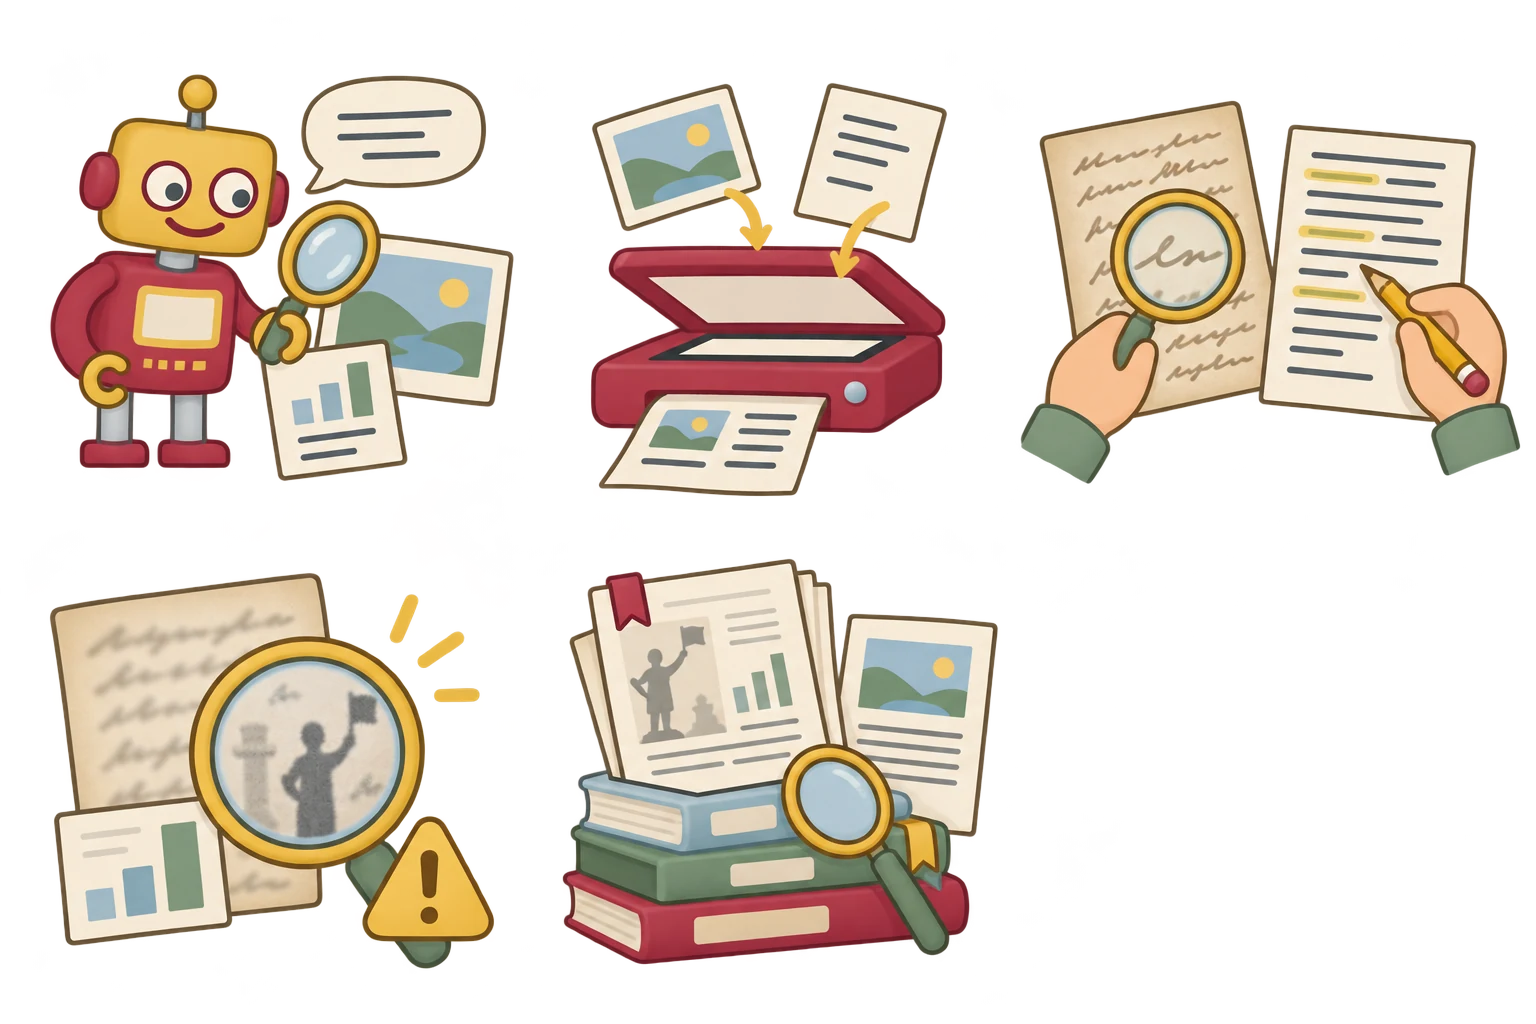
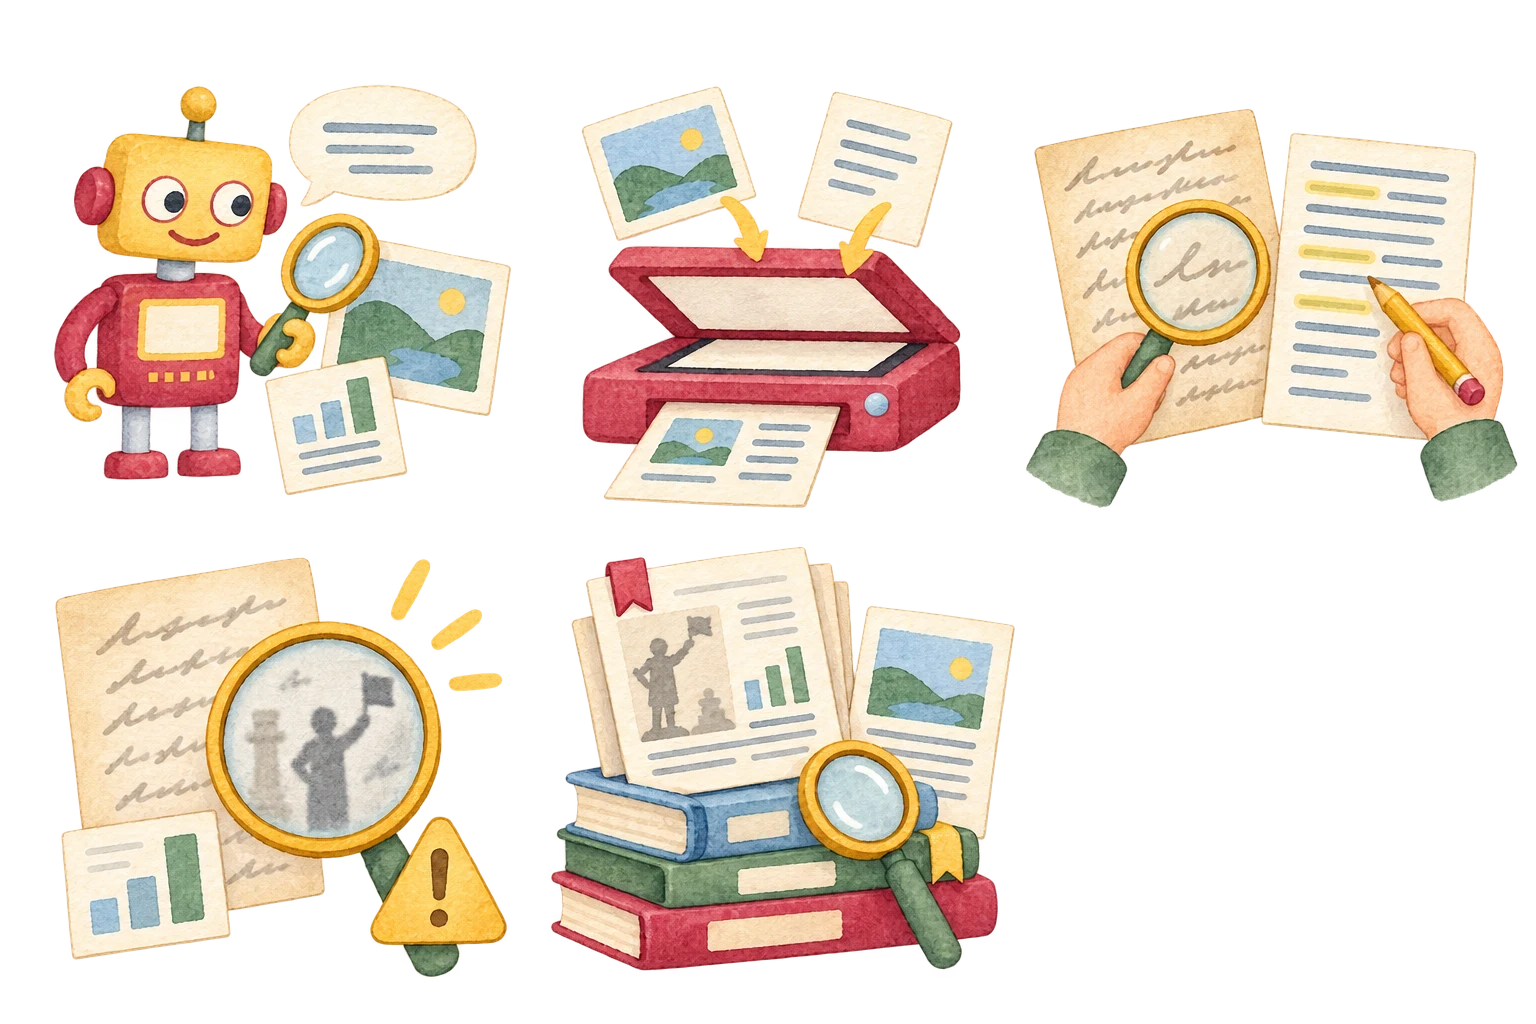
Repaint all AI-type illustrations in the walkthrough watercolor style
Repaint all 55 scenes using both walkthroughs as references. Preserve soft pigment washes, fine paper grain, and light contours. Use measured CSS viewports to retain the complete painted edges, with tests for all scene proportions and transparent margins.

diff --git a/src/css/register-types.css b/src/css/register-types.css
@@ -68,24 +68,77 @@ html.type-dialog-open{overflow:hidden;}
 .type-slide:focus-visible{outline:2px solid var(--focus);outline-offset:5px;}
 .type-slide__text{min-width:0;}
 .type-slide .type-slide__text h3{margin:0 0 12px;padding:0;border:0;}
-/* Five separate illustrations per type, packed in a 3 × 2 transparent atlas.
-   CSS selects a cell without downloading five separate files. No text is in the artwork. */
-.type-slide__art{width:100%;aspect-ratio:1;background-repeat:no-repeat;background-size:300% 200%;background-position:0 0;pointer-events:none;}
-.type-slide__art--1{background-position:50% 0;}
-.type-slide__art--2{background-position:100% 0;}
-.type-slide__art--3{background-position:0 100%;}
-.type-slide__art--4{background-position:50% 100%;}
-.type-slide__art--conversational{background-image:url(../img/types-conversational.webp);}
-.type-slide__art--multimodal{background-image:url(../img/types-multimodal.webp);}
-.type-slide__art--image{background-image:url(../img/types-image.webp);}
-.type-slide__art--video{background-image:url(../img/types-video.webp);}
-.type-slide__art--audio{background-image:url(../img/types-audio.webp);}
-.type-slide__art--code{background-image:url(../img/types-code.webp);}
-.type-slide__art--discipline{background-image:url(../img/types-discipline.webp);}
-.type-slide__art--grounded{background-image:url(../img/types-grounded.webp);}
-.type-slide__art--search{background-image:url(../img/types-search.webp);}
-.type-slide__art--agentic{background-image:url(../img/types-agentic.webp);}
-.type-slide__art--institutional{background-image:url(../img/types-institutional.webp);}
+/* Five watercolor scenes per transparent atlas. Individually measured viewports
+   retain the painted edges and gutters; the square layout slot stays constant. */
+.type-slide__art{position:relative;width:100%;aspect-ratio:1;pointer-events:none;}
+.type-slide__art::before{content:"";position:absolute;left:50%;top:50%;transform:translate(-50%,-50%);width:var(--art-width);height:var(--art-height);background-image:var(--art-image);background-repeat:no-repeat;background-size:var(--art-size);background-position:var(--art-position);}
+.type-slide__art--conversational{--art-image:url(../img/types-conversational.webp);}
+.type-slide__art--multimodal{--art-image:url(../img/types-multimodal.webp);}
+.type-slide__art--image{--art-image:url(../img/types-image.webp);}
+.type-slide__art--video{--art-image:url(../img/types-video.webp);}
+.type-slide__art--audio{--art-image:url(../img/types-audio.webp);}
+.type-slide__art--code{--art-image:url(../img/types-code.webp);}
+.type-slide__art--discipline{--art-image:url(../img/types-discipline.webp);}
+.type-slide__art--grounded{--art-image:url(../img/types-grounded.webp);}
+.type-slide__art--search{--art-image:url(../img/types-search.webp);}
+.type-slide__art--agentic{--art-image:url(../img/types-agentic.webp);}
+.type-slide__art--institutional{--art-image:url(../img/types-institutional.webp);}
+/* watercolor scene viewports */
+.type-slide__art--conversational.type-slide__art--0{--art-width:94.000000%;--art-height:85.658009%;--art-size:332.467532% 243.230404%;--art-position:3.351955% 12.769486%;}
+.type-slide__art--conversational.type-slide__art--1{--art-width:94.000000%;--art-height:56.665323%;--art-size:309.677419% 342.474916%;--art-position:50.096154% 21.517241%;}
+.type-slide__art--conversational.type-slide__art--2{--art-width:94.000000%;--art-height:81.577909%;--art-size:302.958580% 232.727273%;--art-position:99.611273% 14.041096%;}
+.type-slide__art--conversational.type-slide__art--3{--art-width:94.000000%;--art-height:92.164859%;--art-size:333.188720% 226.548673%;--art-position:2.511628% 95.104895%;}
+.type-slide__art--conversational.type-slide__art--4{--art-width:94.000000%;--art-height:74.824000%;--art-size:307.200000% 257.286432%;--art-position:50.772201% 90.095847%;}
+.type-slide__art--multimodal.type-slide__art--0{--art-width:94.000000%;--art-height:84.853002%;--art-size:318.012422% 234.862385%;--art-position:3.893637% 12.244898%;}
+.type-slide__art--multimodal.type-slide__art--1{--art-width:84.767857%;--art-height:94.000000%;--art-size:380.198020% 228.571429%;--art-position:50.265018% 12.673611%;}
+.type-slide__art--multimodal.type-slide__art--2{--art-width:94.000000%;--art-height:77.058140%;--art-size:297.674419% 242.080378%;--art-position:99.411765% 16.139767%;}
+.type-slide__art--multimodal.type-slide__art--3{--art-width:94.000000%;--art-height:87.496855%;--art-size:322.012579% 230.630631%;--art-position:4.060434% 93.965517%;}
+.type-slide__art--multimodal.type-slide__art--4{--art-width:94.000000%;--art-height:86.487705%;--art-size:314.754098% 228.062361%;--art-position:51.431298% 92.869565%;}
+.type-slide__art--image.type-slide__art--0{--art-width:94.000000%;--art-height:88.226488%;--art-size:294.817658% 209.406953%;--art-position:1.280788% 5.607477%;}
+.type-slide__art--image.type-slide__art--1{--art-width:94.000000%;--art-height:84.858351%;--art-size:324.735729% 239.812646%;--art-position:50.235183% 13.902848%;}
+.type-slide__art--image.type-slide__art--2{--art-width:94.000000%;--art-height:81.976744%;--art-size:297.674419% 227.555556%;--art-position:98.725490% 12.195122%;}
+.type-slide__art--image.type-slide__art--3{--art-width:94.000000%;--art-height:77.723735%;--art-size:298.832685% 240.941176%;--art-position:1.761252% 90.984975%;}
+.type-slide__art--image.type-slide__art--4{--art-width:94.000000%;--art-height:77.433663%;--art-size:304.158416% 246.153846%;--art-position:51.600388% 91.118421%;}
+.type-slide__art--video.type-slide__art--0{--art-width:94.000000%;--art-height:75.008163%;--art-size:313.469388% 261.892583%;--art-position:2.198853% 18.009479%;}
+.type-slide__art--video.type-slide__art--1{--art-width:94.000000%;--art-height:88.426877%;--art-size:303.557312% 215.126050%;--art-position:49.805825% 7.846715%;}
+.type-slide__art--video.type-slide__art--2{--art-width:94.000000%;--art-height:76.791339%;--art-size:302.362205% 246.746988%;--art-position:99.319066% 21.510673%;}
+.type-slide__art--video.type-slide__art--3{--art-width:94.000000%;--art-height:71.940803%;--art-size:324.735729% 282.872928%;--art-position:2.822201% 88.821752%;}
+.type-slide__art--video.type-slide__art--4{--art-width:94.000000%;--art-height:78.681481%;--art-size:284.444444% 226.548673%;--art-position:51.807229% 95.979021%;}
+.type-slide__art--audio.type-slide__art--0{--art-width:94.000000%;--art-height:84.326622%;--art-size:343.624161% 255.361596%;--art-position:5.417815% 16.693419%;}
+.type-slide__art--audio.type-slide__art--1{--art-width:94.000000%;--art-height:88.070093%;--art-size:358.878505% 255.361596%;--art-position:50.180505% 17.014446%;}
+.type-slide__art--audio.type-slide__art--2{--art-width:94.000000%;--art-height:88.550725%;--art-size:318.012422% 225.054945%;--art-position:96.676163% 10.017575%;}
+.type-slide__art--audio.type-slide__art--3{--art-width:94.000000%;--art-height:80.717391%;--art-size:333.913043% 259.240506%;--art-position:3.996283% 88.553259%;}
+.type-slide__art--audio.type-slide__art--4{--art-width:94.000000%;--art-height:79.507495%;--art-size:328.907923% 259.240506%;--art-position:50.420954% 88.076312%;}
+.type-slide__art--code.type-slide__art--0{--art-width:94.000000%;--art-height:82.297189%;--art-size:308.433735% 234.862385%;--art-position:2.408478% 12.074830%;}
+.type-slide__art--code.type-slide__art--1{--art-width:94.000000%;--art-height:89.042194%;--art-size:324.050633% 228.062361%;--art-position:51.506591% 11.304348%;}
+.type-slide__art--code.type-slide__art--2{--art-width:94.000000%;--art-height:76.445783%;--art-size:308.433735% 252.839506%;--art-position:98.940270% 16.801292%;}
+.type-slide__art--code.type-slide__art--3{--art-width:94.000000%;--art-height:77.207392%;--art-size:315.400411% 256.000000%;--art-position:4.194471% 87.660256%;}
+.type-slide__art--code.type-slide__art--4{--art-width:94.000000%;--art-height:79.975806%;--art-size:309.677419% 242.654028%;--art-position:53.461538% 90.199336%;}
+.type-slide__art--discipline.type-slide__art--0{--art-width:94.000000%;--art-height:73.656716%;--art-size:286.567164% 243.809524%;--art-position:1.600000% 14.072848%;}
+.type-slide__art--discipline.type-slide__art--1{--art-width:94.000000%;--art-height:78.762105%;--art-size:323.368421% 257.286432%;--art-position:52.309142% 15.335463%;}
+.type-slide__art--discipline.type-slide__art--2{--art-width:94.000000%;--art-height:76.838174%;--art-size:318.672199% 259.898477%;--art-position:98.292220% 18.095238%;}
+.type-slide__art--discipline.type-slide__art--3{--art-width:94.000000%;--art-height:71.505837%;--art-size:298.832685% 261.892583%;--art-position:1.272016% 90.521327%;}
+.type-slide__art--discipline.type-slide__art--4{--art-width:94.000000%;--art-height:77.484112%;--art-size:287.102804% 232.199546%;--art-position:53.546454% 94.168096%;}
+.type-slide__art--grounded.type-slide__art--0{--art-width:94.000000%;--art-height:89.390192%;--art-size:327.505330% 229.596413%;--art-position:2.530459% 11.591696%;}
+.type-slide__art--grounded.type-slide__art--1{--art-width:94.000000%;--art-height:85.954071%;--art-size:320.668058% 233.789954%;--art-position:50.047304% 10.750853%;}
+.type-slide__art--grounded.type-slide__art--2{--art-width:94.000000%;--art-height:82.367265%;--art-size:306.586826% 233.257403%;--art-position:98.550725% 13.675214%;}
+.type-slide__art--grounded.type-slide__art--3{--art-width:94.000000%;--art-height:74.151394%;--art-size:305.976096% 258.585859%;--art-position:2.514507% 90.445860%;}
+.type-slide__art--grounded.type-slide__art--4{--art-width:94.000000%;--art-height:81.532632%;--art-size:323.368421% 248.543689%;--art-position:51.555137% 92.156863%;}
+.type-slide__art--search.type-slide__art--0{--art-width:94.000000%;--art-height:85.705882%;--art-size:322.689076% 235.944700%;--art-position:2.264151% 12.033898%;}
+.type-slide__art--search.type-slide__art--1{--art-width:94.000000%;--art-height:84.135802%;--art-size:316.049383% 235.402299%;--art-position:50.666667% 11.884550%;}
+.type-slide__art--search.type-slide__art--2{--art-width:94.000000%;--art-height:93.044715%;--art-size:312.195122% 210.266940%;--art-position:98.754789% 7.448790%;}
+.type-slide__art--search.type-slide__art--3{--art-width:94.000000%;--art-height:81.747863%;--art-size:328.205128% 251.597052%;--art-position:3.277154% 91.085900%;}
+.type-slide__art--search.type-slide__art--4{--art-width:94.000000%;--art-height:82.564948%;--art-size:316.701031% 240.375587%;--art-position:50.428164% 93.143813%;}
+.type-slide__art--agentic.type-slide__art--0{--art-width:94.000000%;--art-height:76.870159%;--art-size:349.886105% 285.236769%;--art-position:5.651778% 17.744361%;}
+.type-slide__art--agentic.type-slide__art--1{--art-width:94.000000%;--art-height:80.748899%;--art-size:338.325991% 262.564103%;--art-position:51.293900% 12.618297%;}
+.type-slide__art--agentic.type-slide__art--2{--art-width:94.000000%;--art-height:86.769231%;--art-size:381.141439% 275.268817%;--art-position:94.086496% 18.558282%;}
+.type-slide__art--agentic.type-slide__art--3{--art-width:94.000000%;--art-height:69.948357%;--art-size:360.563380% 323.028391%;--art-position:6.396396% 85.572843%;}
+.type-slide__art--agentic.type-slide__art--4{--art-width:94.000000%;--art-height:72.052863%;--art-size:338.325991% 294.252874%;--art-position:50.831793% 86.834320%;}
+.type-slide__art--institutional.type-slide__art--0{--art-width:94.000000%;--art-height:69.163303%;--art-size:281.834862% 255.361596%;--art-position:0.302725% 15.890851%;}
+.type-slide__art--institutional.type-slide__art--1{--art-width:94.000000%;--art-height:89.158798%;--art-size:329.613734% 231.674208%;--art-position:51.214953% 10.481100%;}
+.type-slide__art--institutional.type-slide__art--2{--art-width:94.000000%;--art-height:73.192233%;--art-size:298.252427% 255.361596%;--art-position:99.314398% 17.014446%;}
+.type-slide__art--institutional.type-slide__art--3{--art-width:94.000000%;--art-height:74.416667%;--art-size:304.761905% 256.641604%;--art-position:2.325581% 90.720000%;}
+.type-slide__art--institutional.type-slide__art--4{--art-width:94.000000%;--art-height:82.008230%;--art-size:316.049383% 241.509434%;--art-position:51.428571% 91.333333%;}
 .type-slide p{color:var(--ink-2);font-size:17px;line-height:1.6;margin:0;max-width:82ch;}
 .type-slide .type-sources{margin:6px 0 0;}
 .type-deck__nav{display:flex;align-items:center;gap:10px 14px;margin-left:auto;}

diff --git a/tests/types.test.js b/tests/types.test.js
@@ -56,16 +56,30 @@ async function box(page){return page.locator('#aiTypeDialog').evaluate(n=>{const
    assert.deepEqual(await page.locator('.type-slide h3').allTextContents(),['What it does','Inputs and outputs','Illustrative faculty use','Limits and open questions','References']);
    assert.deepEqual(await page.locator('.type-slide').evaluateAll(ns=>ns.map(n=>n.hidden)),[false,true,true,true,true]);
    assert.equal(await page.locator('#typePos').textContent(),'1 of 5');
-   /* All five illustrations resolve locally and select different cells in this type's atlas. */
+   /* All five watercolor scenes decode locally, keep their proportions, and have clear edges. */
    const art=await page.locator('.type-slide__art').evaluateAll(async ns=>{
      return Promise.all(ns.map(async n=>{
-       const css=getComputedStyle(n),url=css.backgroundImage.slice(5,-2),img=new Image();
+       const css=getComputedStyle(n,'::before'),url=css.backgroundImage.slice(5,-2),img=new Image();
        img.src=url;await img.decode();
-       return {hidden:n.getAttribute('aria-hidden'),url,position:css.backgroundPosition,size:css.backgroundSize,width:img.naturalWidth,height:img.naturalHeight};
+       const size=css.backgroundSize.split(' ').map(parseFloat),pos=css.backgroundPosition.split(' ').map(parseFloat);
+       const w=img.naturalWidth*100/size[0],h=img.naturalHeight*100/size[1];
+       const x=Math.round((img.naturalWidth-w)*pos[0]/100),y=Math.round((img.naturalHeight-h)*pos[1]/100);
+       const cw=Math.round(w),ch=Math.round(h),canvas=document.createElement('canvas');
+       canvas.width=img.naturalWidth;canvas.height=img.naturalHeight;
+       const ctx=canvas.getContext('2d');ctx.drawImage(img,0,0);
+       const pixels=ctx.getImageData(x,y,cw,ch).data;
+       const alpha=(px,py)=>pixels[(py*cw+px)*4+3];
+       let edgeAlpha=0;
+       for(let px=0;px<cw;px++)edgeAlpha=Math.max(edgeAlpha,alpha(px,0),alpha(px,ch-1));
+       for(let py=0;py<ch;py++)edgeAlpha=Math.max(edgeAlpha,alpha(0,py),alpha(cw-1,py));
+       const ratio=parseFloat(css.getPropertyValue('--art-width'))/parseFloat(css.getPropertyValue('--art-height'));
+       return {hidden:n.getAttribute('aria-hidden'),url,position:css.backgroundPosition,width:img.naturalWidth,height:img.naturalHeight,
+         validCrop:x>=0&&y>=0&&cw>0&&ch>0&&x+cw<=img.naturalWidth&&y+ch<=img.naturalHeight,
+         undistorted:Math.abs(w/h-ratio)<.0001,edgeAlpha};
      }));
    });
    assert.equal(art.length,5,t.key+' has an illustration on every slide');
-   assert.ok(art.every(a=>a.hidden==='true'&&a.width===1536&&a.height===1024&&a.size==='300% 200%'&&new URL(a.url).origin===new URL(server.origin).origin),JSON.stringify(art));
+   assert.ok(art.every(a=>a.hidden==='true'&&a.width===1536&&a.height===1024&&a.validCrop&&a.undistorted&&a.edgeAlpha<=8&&new URL(a.url).origin===new URL(server.origin).origin),JSON.stringify(art));
    assert.equal(new Set(art.map(a=>a.url)).size,1,'one cached atlas per type');
    assert.equal(new Set(art.map(a=>a.position)).size,5,'each slide has its own illustration');
    assert.ok(art[0].url.includes('/types-'+t.key+'.'),'the atlas matches the entry');

diff --git a/docs/AI-TYPE-ILLUSTRATIONS.md b/docs/AI-TYPE-ILLUSTRATIONS.md
@@ -4,13 +4,14 @@ The 55 illustrations supplement the five slides in each of the 11 type dialogs f
 
 ## Visual direction and provenance
 
-Generated with OpenAI image generation on October 28, 2026, using the existing What If AI walkthrough robot in `src/partials/tour.html` as the visual reference. The palette follows the walkthrough's maroon, mustard gold, cream, steel, sage, and sky-blue washes. Each drawing is an illustrative metaphor rather than a research figure; all factual explanations and citations remain in the adjacent text.
+Generated and repainted with OpenAI image generation on October 28, 2026, using the existing drawings in both `src/partials/tour.html` (What If AI) and `src/partials/register-tour.html` (The Register) as visual references. The watercolor revision preserves all 55 scenes while replacing the smooth, heavy outlines with soft pigment washes, fine paper grain inside the painted objects, lighter contours, and irregular brush edges. The palette follows both walkthroughs' maroon, mustard gold, cream, steel, sage, and sky-blue washes. Each drawing is an illustrative metaphor rather than a research figure; all factual explanations and citations remain in the adjacent text.
 
 ## Asset contract
 
 - `src/img/types-<key>.webp`: one transparent 1536 × 1024 atlas per type, encoded at quality 88 with full-quality alpha.
-- Each atlas is a 3-column × 2-row grid of 512 × 512 cells. Reading order: What it does; Inputs and outputs; Illustrative faculty use; Limits and open questions; References; unused cell.
-- `src/css/register-types.css` selects a distinct cell with background size `300% 200%` and positions `0 0`, `50% 0`, `100% 0`, `0 100%`, `50% 100%`.
+- Each atlas arranges five scenes in three columns and two rows. Reading order: What it does; Inputs and outputs; Illustrative faculty use; Limits and open questions; References; unused space.
+- `src/css/register-types.css` gives each scene an individually measured viewport, with transparent padding around its full painted extent. A centered `::before` displays the selected region at its original proportions inside the unchanged square layout slot. The `--art-size` and `--art-position` properties select the region; `--art-width` and `--art-height` fit it within 94% of the slot. This retains watercolor edges that extend beyond a nominal 512-pixel grid boundary, without clipping or showing neighboring artwork.
+- WebP encoding preserves the generated canvas and transparency. The illustrations are repainted by image generation; the site selects their display regions with CSS.
 - The existing build fingerprints the images and rewrites their CSS URLs. Only an opened type needs its atlas; subsequent slides reuse that asset.
 - Artwork has `aria-hidden="true"`, contains no required information, and never takes focus. The complete textual explanation and citations stay readable if images are unavailable.
 - Desktop slides put the drawing alongside the text; narrow screens put a smaller drawing above it. Navigation remains in the fixed dialog footer. No animation or automatic advance was added.
@@ -65,5 +66,5 @@ INSTITUTIONAL ACCESS AND SELF-HOSTED AI. Top-left: modest campus building beside
 
 When ArrowLeft, ArrowRight, Home, or End changes a slide while a citation owns focus, the incoming slide receives focus before the old slide is hidden. Keyboard navigation can continue. Focus originating in a persistent footer control stays there.
 
-`tests/types.test.js` checks all 55 atlas cells, image decoding, same-origin loading, decorative semantics, keyboard focus, and the existing nine responsive widths. The sourced guide, product examples, collection, and license pins are preserved from PR #32.
+`tests/types.test.js` checks all 55 scene viewports, image decoding, same-origin loading, original proportions, transparent edges (to catch clipping), decorative semantics, keyboard focus, and the existing nine responsive widths. The sourced guide, product examples, collection, and license pins are preserved from PR #32.
 

diff --git a/README.md b/README.md
@@ -50,9 +50,9 @@ The guide changes explanations while preserving the collection's related-idea ke
 
 `src/js/register-type-examples.js` contains illustrative product names, capability notes, official links, and their checked date. Product links need no additional numbered citations. Review those links when updating the examples.
 
-Every carousel slide has a topic-specific painted illustration. The 55 drawings
+Every carousel slide has a topic-specific watercolor illustration. The 55 drawings
 are stored as 11 transparent WebP atlases in `src/img/types-*.webp`; CSS selects
-one of five cells per type and the build fingerprints each asset. The artwork is
+one of five measured scene viewports per type and the build fingerprints each asset. The artwork is
 decorative and hidden from assistive technology; the adjacent text remains the
 complete explanation. See [the illustration map](docs/AI-TYPE-ILLUSTRATIONS.md).
 

diff --git a/NOTICE.md b/NOTICE.md
@@ -41,8 +41,9 @@ Original interface icons (`src/partials/icons.svg`), walkthrough illustrations
 covered by the tool license, except for separately identified third-party material.
 
 The 55 AI-system carousel illustrations in `src/img/types-*.webp` were generated
-with OpenAI image generation using the existing walkthrough artwork as the style
-reference. They are illustrative metaphors, not research figures or evidence for
+and repainted with OpenAI image generation using both existing walkthroughs as
+style references for the watercolor washes, palette, and linework. They are
+illustrative metaphors, not research figures or evidence for
 the guide's claims. The existing tool-license grant applies only to the extent
 the Library holds the relevant rights. See `docs/AI-TYPE-ILLUSTRATIONS.md` for the
 slide mapping and asset layout.
